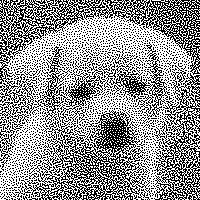
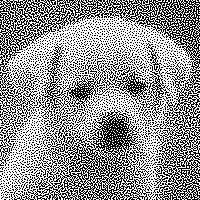
Add error diffusion and  refactor code

diff --git a/HVC_VAC.py b/HVC_VAC.py
@@ -1,63 +1,8 @@
-import os
-import cv2
-import time
-import glob
-import argparse
-from matplotlib.cbook import flatten
 import numpy as np
-import matplotlib.pyplot as plt
+import cv2
+from utils import *
 from scipy.signal import convolve2d as convolution
-
-def get_args():
-    parser = argparse.ArgumentParser()
-    parser.add_argument("-f", "--fingerprint", type=str, help="fingerprint image path", required=True)
-    parser.add_argument("-s", "--signature", type=str, help="fingerprint image path", required=True)
-    parser.add_argument("-m", "--message", type=str, help="message image directory", required=True)
-    parser.add_argument("-o", "--output", type=str, help="output images directory", required=True)
-    parser.add_argument("-sh", "--shape", type=int, nargs=2, help="output image shape", default=None)
-    parser.add_argument("-r", "--resample_range", type=float, nargs=2, help="range for resampling shared images", default=[0.35, 0.65])
-    parser.add_argument("-v", "--verbose", type=int, help="verbosity", default=0)
-    args_ = parser.parse_args()
-    return args_
-
-class clock():
-    def tick(self):
-        self.st = time.time()
-    
-    def tock(self):
-        self.et = time.time()
-        
-    def get_time(self):
-        return self.et - self.st
-
-def read_image(path, resize=None, binary=False):
-    if not path: return None
-    img = cv2.imread(path, cv2.IMREAD_GRAYSCALE)
-    if resize: img = cv2.resize(img, (resize[1], resize[0]))
-    img = img / 255.
-    if binary:
-        img[img > 0.5] = 1.0
-        img[img <= 0.5] = 0.0
-    return img
-
-def save_image(path, img):
-    if np.max(img) <= 1.0: img = img * 255.
-    cv2.imwrite(path, img)
-
-def show_image(img, title=None):
-    plt.figure()
-    if title: plt.title(title)
-    plt.imshow(img, cmap='gray')
-    plt.show()
-
-def decode_shares(share1, share2):
-    # We use XNOR for decoding rather than simple adding
-    # We would the
-    decode = share1 + share2
-    decode[decode==1] = 0
-    decode[decode==2] = 1
-    # decode = np.logical_not(np.logical_xor(share1, share2)).astype(float)
-    return decode
+import tqdm
 
 class HVC_VAC():
     def __init__(self, secret, shape=None, kernel=None, max_iter=100000, verbose=1):
@@ -115,7 +60,6 @@ class HVC_VAC():
         timer = clock()
         timer.tick()
         flat_mask = np.arange(np.prod(self.secret.shape))
-        
         # Select white region
         W_1 = np.random.choice(flat_mask, size=self.w_size//2, replace=False, p=self.w_mask.flatten()/np.sum(self.w_mask))
         # W_0_p = self.w_mask.flatten()
@@ -145,6 +89,8 @@ class HVC_VAC():
         RP1[B_1] = 1
         RP2[B_1] = 0
         self.RPs = [np.reshape(RP1, self.secret.shape), np.reshape(RP2, self.secret.shape)]
+        cv2.imwrite('b.png', self.RPs[0]*255)
+        cv2.imwrite('c.png', self.RPs[1]*255)
         cv2.imwrite('d.png', decode_shares(self.RPs[0],self.RPs[1])*255)
         cluster_score_1 = self._get_score(self.RPs[0], 'cluster')
         cluster_score_2 = self._get_score(self.RPs[1], 'cluster')
@@ -194,7 +140,7 @@ class HVC_VAC():
         SPs = [self.RPs[0].copy(), self.RPs[1].copy()]
         timer.tick()
         
-        for i in range(self.max_iter):
+        for i in tqdm.tqdm(range(self.max_iter)):
             # Select RP to run on
             index = np.random.randint(2)
             region = None
@@ -227,6 +173,9 @@ class HVC_VAC():
             # Check termination
             if cluster_pos == void_pos: break
         self.SPs = SPs
+        cv2.imwrite('e.png', self.SPs[0]*255)
+        cv2.imwrite('f.png', self.SPs[1]*255)
+        cv2.imwrite('g.png', decode_shares(self.SPs[0],self.SPs[1])*255)
                 
         timer.tock()
         if self.verbose: print("INFO: Step 1 done, time: %.5fs" % timer.get_time())
@@ -237,6 +186,8 @@ class HVC_VAC():
         dither_matrix_1 = self.vac_operation_2(0)
         dither_matrix_2 = self.vac_operation_2(1)
         self.TAs = [dither_matrix_1, dither_matrix_2]
+        cv2.imwrite('h.png', self.TAs[0]*255)
+        cv2.imwrite('i.png', self.TAs[1]*255)
         timer.tock()
         if self.verbose: print("INFO: Step 2 done, time: %.5fs" % timer.get_time())
 
@@ -279,36 +230,3 @@ class HVC_VAC():
         halftone_img = np.zeros(image.shape)
         halftone_img[image > self.TAs[index]] = 1.0
         return halftone_img
-
-if __name__ == "__main__":
-    args = get_args()
-
-    # Load images
-    fingerprint = read_image(args.fingerprint, resize=args.shape, binary=True)
-    signature = read_image(args.signature, resize=args.shape)
-    messages = glob.glob(os.path.join(args.message, '*'))
-    messages = [read_image(p, resize=args.shape) for p in messages]
-    messages_num = len(messages)
-
-    # Run HVC-VAC
-    hvc_vac = HVC_VAC(fingerprint, shape=args.shape, verbose=args.verbose)
-    hvc_vac.run()
-
-    # Get halftoned images
-    ht_signature = hvc_vac.halftone(signature, 0, resample_range=args.resample_range)
-    ht_messages = [hvc_vac.halftone(m, 1, resample_range=args.resample_range) for m in messages]
-    ht_fingerprints = [decode_shares(ht_signature, m) for m in ht_messages]
-
-    # Save images
-    save_image(os.path.join(args.output, 'signature.png'), ht_signature)
-    [save_image(os.path.join(args.output, 'message_%d.png' % i), ht_messages[i]) for i in range(messages_num)]
-    [save_image(os.path.join(args.output, 'fingerprint_%d.png' % i), ht_fingerprints[i]) for i in range(messages_num)]
-
-    # Check if signatures are identical
-    signatures = [decode_shares(ht_messages[i], ht_fingerprints[i]) for i in range(messages_num)]
-    for i in range(messages_num-1):
-        for j in range(i+1, messages_num):
-            similarity = np.sum(signatures[i] == signatures[j]) / np.prod(args.shape) * 100
-            print("Same pixel value ratio of signature %d & %d: %.2f %%" % (i, j, similarity))
-
-# python HVC-VAC.py -f fingerprint.png -s signature.png -m messages -o outputs -sh 200 200 -r 0.35 0.65 -v 1

diff --git a/main.py b/main.py
@@ -1,0 +1,57 @@
+import os
+import argparse
+import numpy as np
+from HVC_VAC import HVC_VAC
+from utils import read_image, decode_shares, save_image
+
+def get_args():
+    parser = argparse.ArgumentParser()
+    parser.add_argument("-f", "--fingerprint", type=str, help="fingerprint image path", required=True)
+    parser.add_argument("-s", "--signature", type=str, help="fingerprint image path", required=True)
+    parser.add_argument("-m", "--message", type=str, help="message image directory", required=True)
+    parser.add_argument("-o", "--output", type=str, help="output images directory", required=True)
+    parser.add_argument("-sh", "--shape", type=int, nargs=2, help="output image shape", default=None)
+    parser.add_argument("-r", "--resample_range", type=float, nargs=2, help="range for resampling shared images", default=[0.35, 0.65])
+    parser.add_argument("-v", "--verbose", type=int, help="verbosity", default=0)
+    args_ = parser.parse_args()
+    return args_
+
+
+def whole_process(args):
+    # Load images
+    fingerprint = read_image(args.fingerprint, resize=args.shape, binary=True)
+    signature = read_image(args.signature, resize=args.shape)
+    messages = [args.message]
+    messages = [read_image(p, resize=args.shape) for p in messages]
+    messages_num = len(messages)
+
+    # Run HVC-VAC
+    hvc_vac = HVC_VAC(fingerprint, shape=args.shape, verbose=args.verbose)
+    hvc_vac.run()
+
+    # Get halftoned images
+    ht_signature = hvc_vac.halftone(signature, 0, resample_range=args.resample_range)
+    ht_messages = [hvc_vac.halftone(m, 1, resample_range=args.resample_range) for m in messages]
+    ht_fingerprints = [decode_shares(ht_signature, m) for m in ht_messages]
+
+    # Save images
+    save_image(os.path.join(args.output, 'signature.png'), ht_signature)
+    [save_image(os.path.join(args.output, 'message_%d.png' % i), ht_messages[i]) for i in range(messages_num)]
+    [save_image(os.path.join(args.output, 'fingerprint_%d.png' % i), ht_fingerprints[i]) for i in range(messages_num)]
+
+    # Check if signatures are identical
+    signatures = [decode_shares(ht_messages[i], ht_fingerprints[i]) for i in range(messages_num)]
+    for i in range(messages_num-1):
+        for j in range(i+1, messages_num):
+            similarity = np.sum(signatures[i] == signatures[j]) / np.prod(args.shape) * 100
+            print("Same pixel value ratio of signature %d & %d: %.2f %%" % (i, j, similarity))
+
+
+if __name__ == "__main__":
+    args = get_args()
+
+    whole_process(args)
+ 
+    
+
+

diff --git a/utils.py b/utils.py
@@ -1,0 +1,45 @@
+import cv2
+import time
+from error_diffusion import error_diffusion
+import numpy as np
+
+class clock():
+    def tick(self):
+        self.st = time.time()
+    
+    def tock(self):
+        self.et = time.time()
+        
+    def get_time(self):
+        return self.et - self.st
+
+def read_image(path, resize=None, binary=False):
+    if not path: return None
+    img = cv2.imread(path, cv2.IMREAD_GRAYSCALE)
+    if resize: img = cv2.resize(img, (resize[1], resize[0]))
+    img = img / 255.
+    if binary:
+        # img[img > 0.5] = 1.0
+        # img[img <= 0.5] = 0.0
+        img = error_diffusion(img*255)
+        cv2.imwrite('halftone_secret.png', img*255)
+    return img
+
+def save_image(path, img):
+    if np.max(img) <= 1.0: img = img * 255.
+    cv2.imwrite(path, img)
+
+def show_image(img, title=None):
+    plt.figure()
+    if title: plt.title(title)
+    plt.imshow(img, cmap='gray')
+    plt.show()
+
+def decode_shares(share1, share2):
+    # We use XNOR for decoding rather than simple adding
+    # We would the
+    decode = share1 + share2
+    decode[decode==1] = 0
+    decode[decode==2] = 1
+    # decode = np.logical_not(np.logical_xor(share1, share2)).astype(float)
+    return decode

diff --git a/error_diffusion.py b/error_diffusion.py
@@ -1,0 +1,21 @@
+import os
+import cv2
+from cv2 import IMREAD_GRAYSCALE
+import numpy as np
+
+def error_diffusion(img):
+    E = np.zeros(img.shape)
+    G = np.zeros(img.shape)
+    for i in range(0,img.shape[0]-1):
+        for j in range(1,img.shape[1]-1):
+            G[i,j] = ((img[i,j]+E[i,j]) >= 255/2) * 255
+            tmp = (img[i,j]+E[i,j]) - G[i,j]
+            E[i:i+2,j-1:j+2] = E[i:i+2,j-1:j+2] + np.array([[0,0,7],[3,5,1]])/16*tmp
+    return G / 255
+
+if __name__ == '__main__':
+    img_path = '/home/u/woody8657/projs/HVC-VAC_Authentication/coco_test/inputs/tmp/000000000724.jpg'
+    img = cv2.imread(img_path, IMREAD_GRAYSCALE)
+    img = error_diffusion(img)
+    cv2.imwrite(img_path, img)
+    

diff --git a/data.py b/data.py
@@ -1,0 +1,10 @@
+import os
+import cv2
+import tqdm
+
+if __name__ == '__main__':
+    path = '/home/u/woody8657/tmp/val2017/'
+    for jpg in tqdm.tqdm(os.listdir(path)):
+        img = cv2.imread(os.path.join(path, jpg), cv2.IMREAD_GRAYSCALE)
+        cv2.imwrite(os.path.join(path, jpg), img)
+
